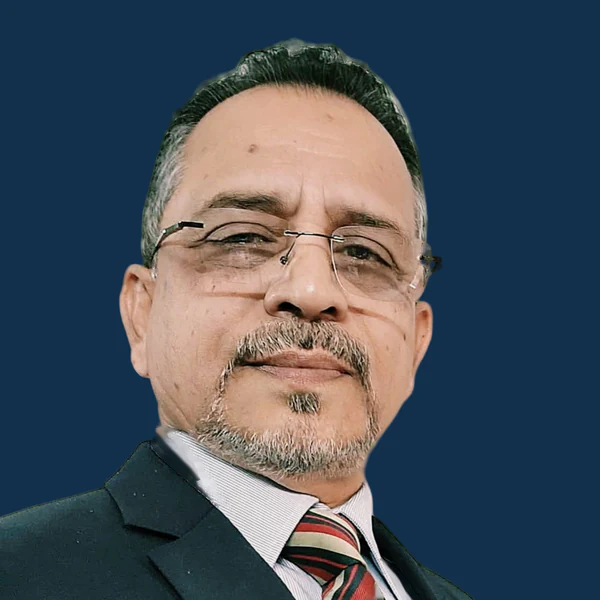
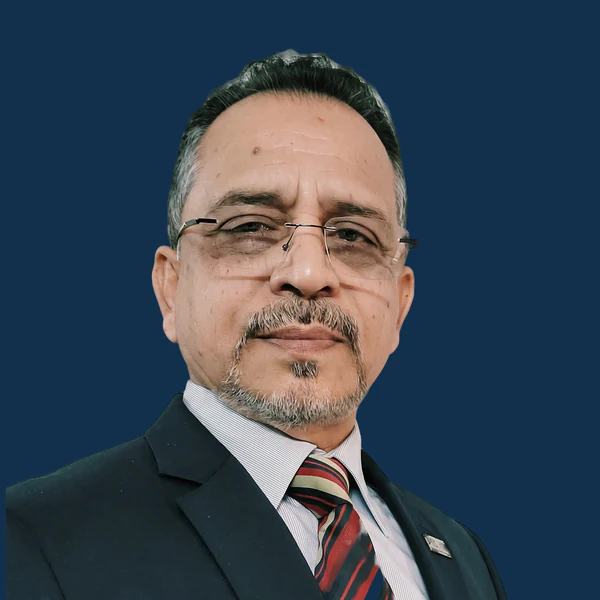
President's message magazine layout; new photo for Abu Murshed Chowdhury
- Homepage President section (xl): portrait floats left at a fixed height, the message
  starts beside it and runs full width below to the signature; text justified
- Abu Murshed Chowdhury: new higher-resolution photo, navy background, face-matched crop

diff --git a/src/components/pages/Home.tsx b/src/components/pages/Home.tsx
@@ -289,16 +289,16 @@ export default function Home({ navigate }: HomeProps) {
 
             return (
               <section key="president" id="president-session" className="py-24 px-6 bg-bg-primary">
-                <div className="max-w-6xl mx-auto grid grid-cols-1 lg:grid-cols-12 gap-12 items-center xl:items-stretch">
-                  {/* Left Side: Photo Framed. Side by side (xl), the frame grows with the message and the
-                      portrait fills it. */}
-                  <div className="lg:col-span-12 xl:col-span-5 relative group">
+                {/* Magazine layout (xl): the framed portrait floats left, the message starts beside it and
+                    continues full width underneath. Below xl the portrait sits above the message. */}
+                <div className="max-w-6xl mx-auto flow-root">
+                  <div className="relative group mb-12 xl:float-left xl:w-[46%] xl:mr-14 xl:mb-10">
                     <div className="absolute -inset-2 border border-gold/40 transform translate-x-3 translate-y-3 transition-transform duration-300 group-hover:translate-x-1 group-hover:translate-y-1"></div>
-                    <div className="relative overflow-hidden bg-[#12304c] border border-gold xl:h-full">
+                    <div className="relative overflow-hidden bg-[#12304c] border border-gold">
                       <img
                         src={presPhoto}
                         alt="President photo representation"
-                        className="w-full h-[460px] object-cover object-top xl:h-full xl:min-h-[460px] xl:object-[50%_35%] transition-all duration-700"
+                        className="w-full h-[460px] object-cover object-top xl:h-[640px] xl:object-[50%_30%] transition-all duration-700"
                         referrerPolicy="no-referrer"
                         onError={(e) => {
                           const img = e.currentTarget;
@@ -321,12 +321,12 @@ export default function Home({ navigate }: HomeProps) {
                     </div>
                   </div>
 
-                  {/* Right Side: Message text */}
-                  <div className="lg:col-span-12 xl:col-span-7 space-y-6">
+                  {/* Message text: wraps around the portrait, then runs full width */}
+                  <div className="space-y-6">
                     <span className="font-sans text-[9px] font-semibold tracking-[0.25em] uppercase text-text-gold block">
                       Founding Leadership
                     </span>
-                    <h2 className="font-display text-3xl md:text-4xl font-light text-text-dark tracking-tight">
+                    <h2 className="font-display text-3xl md:text-4xl xl:text-[33px] font-light text-text-dark tracking-tight">
                       A Message from the <span className="font-serif italic font-normal text-gold">{presDesignation}</span>
                     </h2>
                     <p className="font-sans text-[10px] text-text-light uppercase tracking-[0.2em] font-semibold -mt-3">
@@ -337,13 +337,13 @@ export default function Home({ navigate }: HomeProps) {
                       <Quote className="w-12 h-12" />
                     </div>
 
-                    <div className="space-y-4 font-sans text-[13px] text-text-body font-light tracking-wide leading-relaxed">
+                    <div className="space-y-4 font-sans text-[13px] text-text-body font-light tracking-wide leading-relaxed text-justify hyphens-auto">
                       {bioLines.map((para, idx) => (
                         <p key={idx}>{withBold(para)}</p>
                       ))}
                     </div>
 
-                    <div className="pt-4 border-t border-slate-200 space-y-1">
+                    <div className="flow-root pt-4 border-t border-slate-200 space-y-1">
                       <p className="font-sans text-[13px] text-text-body font-light">With sincere regards,</p>
                       {/* Signature artwork (outlines from the OFL font Mr De Haviland with pen strokes; no font is loaded). */}
                       <img
